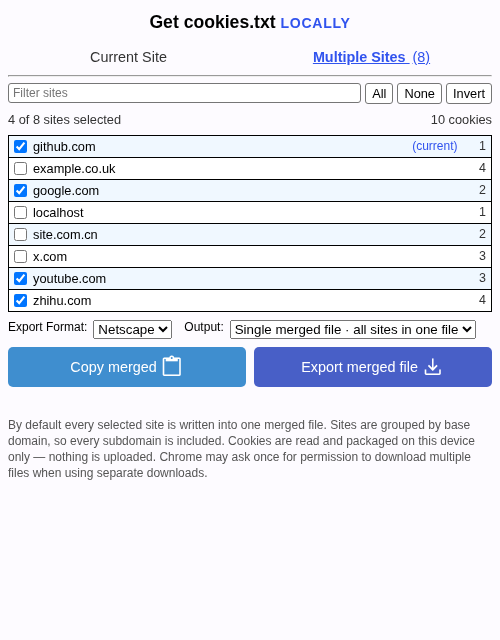
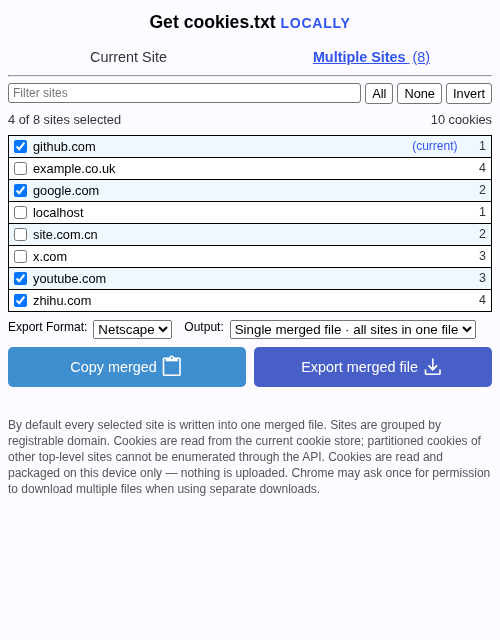
fix: preserve partitioned cookie variants and align release metadata
- include hasCrossSiteAncestor in the batch cookie dedupe key
- clarify batch scope in the popup and empty state
- verify manifest/package versions before building a release
- point the update notification to this fork's releases
- replace stale README bundle version paths with a wildcard
- add dedupe coverage and bump version to 0.8.4

Changed region(s): [[0.0, 0.6562, 0.99, 0.7812]]

diff --git a/src/popup.html b/src/popup.html
@@ -194,7 +194,9 @@
         <p id="batchStatus" class="batch-status" role="status"></p>
         <p class="batch-hint">
           By default every selected site is written into one merged file.
-          Sites are grouped by base domain, so every subdomain is included.
+          Sites are grouped by registrable domain. Cookies are read from the
+          current cookie store; partitioned cookies of other top-level sites
+          cannot be enumerated through the API.
           Cookies are read and packaged on this device only — nothing is uploaded.
           Chrome may ask once for permission to download multiple files when using
           separate downloads.

diff --git a/README.zh-CN.md b/README.zh-CN.md
@@ -38,7 +38,7 @@
 2. 打开 `chrome://extensions/`，开启「开发者模式」。
 3. 点击「加载已解压的扩展程序」，选择 `src` 目录。
 
-也可以直接使用 `dist/get-cookies.txt-locally_v0.8.0_chrome.zip` 解压后加载。
+也可以直接使用 `dist/get-cookies.txt-locally_v*_chrome.zip` 解压后加载。
 
 ### Firefox
 
@@ -47,7 +47,7 @@ npm install
 npm run build:firefox
 ```
 
-把 `dist/get-cookies.txt-locally_v0.8.0_firefox.zip` 解压到一个文件夹，打开
+把 `dist/get-cookies.txt-locally_v*_firefox.zip` 解压到一个文件夹，打开
 `about:debugging#/runtime/this-firefox`，选择「临时载入附加组件」，选中解压目录里的 `manifest.json`。
 
 ## 使用

diff --git a/README.md b/README.md
@@ -52,7 +52,7 @@ npm install
 npm run build:firefox
 ```
 
-Unzip `dist/get-cookies.txt-locally_v0.8.0_firefox.zip` and select its `manifest.json` via **Load Temporary Add-on**.
+Unzip `dist/get-cookies.txt-locally_v*_firefox.zip` and select its `manifest.json` via **Load Temporary Add-on**.
 
 ## Usage
 
